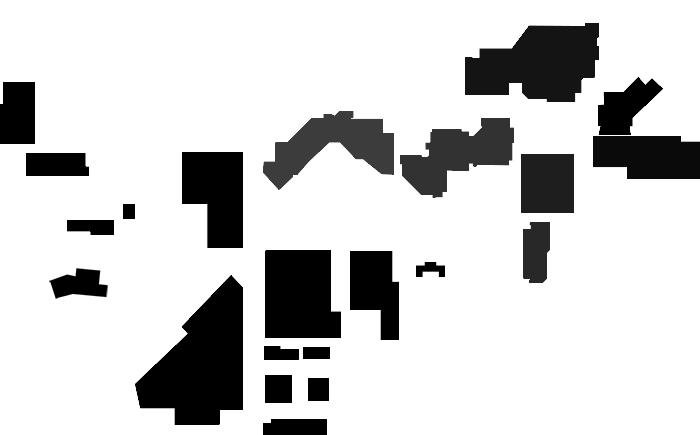
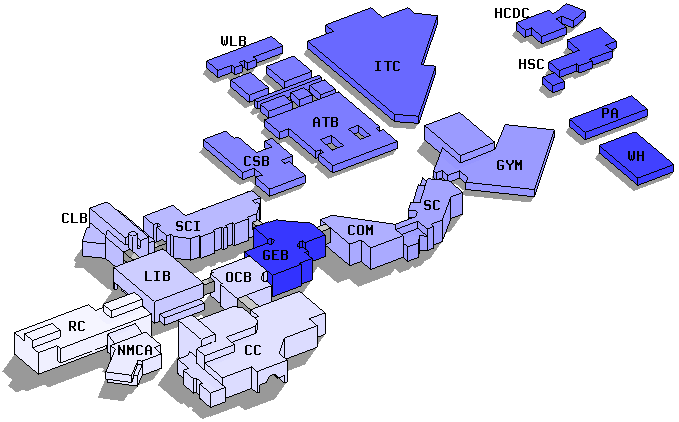
updated colorMap.js with 3D map

diff --git a/capstoneFiles/js/colorMapGRAYS.js b/capstoneFiles/js/colorMapGRAYS.js
@@ -43,8 +43,8 @@ function drawImage() {
 		//get gray image data
 		var image = document.getElementById("grayImage");
 		//set cavas size to the size of map.png image
-		canvas.height = 422;
-		canvas.width = 679;
+		canvas.height = 435;
+		canvas.width = 700;
 		ctx.drawImage(image,0,0);
     
 		var imgd = ctx.getImageData(0, 0, canvas.width,canvas.height)
@@ -52,80 +52,34 @@ function drawImage() {
 
 		
 	
-		//each buildings current blue value
-		//aka currentBuildings[0] = rgb(245,245,255)
-		var currentBuildings = new Array();
-		var colorStart = 245;
-		for(var i = 0; i<20;i++)
-		{
-			currentBuildings.push(colorStart)
-			colorStart -= 10;
-		}
+		//each buildings current gray (to repalce with a color)
+		//aka currentBuildings[0] = 10 = rgb(10,10,10) 
+		var currentBuildings = new Array(10,20,30,40,50,60);
 		
 		//replace with a precent with color from 1 to 100
 		//1% is red, 50% is yellow, 100% is green
-		var newBuildings = new Array();
-		//populate with randome numbers from 1-100
-		for (var j=0;j<currentBuildings.length;j++){
-			newBuildings.push(Math.floor(Math.random() * 100) + 1)
-		}
-		//to fix some anit alising problems
-		var aaFix = 4;
-		//this is the off set from the color blue that repersents the buildings color and the buildings color in the shade
-		//this is set in  in MAP.png the you proabaly cant tell but ues an color picker to see the differents
-		//sun and in the color of blues would are for currentBuildings[] rgb(245,245,255)
-		//current shade on the building is currentBuildings[] rgb(245-shadeOld ,245-shadeOld ,255)	
-		var shadeOld = 5;
+		var newBuildings = new Array(1,73,64,100,50,30);
 		
-		//repaces the old blue shade by subtracting the new building by 70rgb values for both red and green
-		//this makes it much darker than the orignal MAP.png's building shadeing 
-		var shadeNew = 70;
+		//some image options
+		var colorAlpha = 100; //alpha % 0-100
+		var colorIntent = 200; //intensity of colors 0 = black, 255 = very bright colors
 		
 	
 		
 			//loop though each pixel 
 			//(pix[i] = red, pix[i+1] = green, pix[i+2] = blue, pix[i+3] = alpha)	
 		for (var i = 0, n = pix.length; i <n; i += 4) {
-			//fist skip the for loop if the color is not a blue color rgb(0-255,0-255,255(only!))
-			//(if its a blue color the blue value needs to be 225) and red/green can be anything
-			//or non-opaque pixcels 
-		   //(MAP.png is transpaerent where there is no buildings or shade on gournd)
-			if(pix[i+2] >= 255-aaFix && pix[i+3] == 255){
-				//loop for each for a certain blue
-				for (var j=0;j<currentBuildings.length;j++){ 
-					
-		
-						//check if this building's pixcel is in "sun" 
-						//checks for if its the right color blue color is inside the range of aaFix
-						if(pix[i] >= currentBuildings[j]-aaFix && 
-						pix[i] <= currentBuildings[j]+aaFix && 
-						pix[i+1] >= currentBuildings[j]-aaFix && 
-						pix[i+1] <= currentBuildings[j]+aaFix )
-						{ //if it is a building get the right mix of red and green
-							pix[i] = getRed(newBuildings[j],255);
-							pix[i+1] = getGreen(newBuildings[j],255);
-							//set blue to 0
-							pix[i+2] = 0;
-						}
-						//check for building (in "shade") color inside the range of aaFix
-						//checks for if its the right color blue color is inside the range of aaFix
-						else if(
-						pix[i] >= currentBuildings[j]-shadeOld-aaFix && 
-						pix[i] <= currentBuildings[j]-shadeOld+aaFix && 
-						pix[i+1] >= currentBuildings[j]-shadeOld-aaFix && 
-						pix[i+1] <= currentBuildings[j]-shadeOld+aaFix )
-						{ 
-							//gets red and green and then subtracts shadeNew to make the color darker
-							pix[i] = getRed(newBuildings[j],255)-shadeNew;
-							pix[i+1] = getGreen(newBuildings[j],255)-shadeNew;
-							pix[i+2] = 0;
-						}
-					}
-					
+			
+				//remove semi-transparent pixels to clean up the new image from the old one
+				//pix[i+3] is the alpha
+				if(pix[i+3] > 0 && pix[i+3] < 255  ){ 
+					pix[i] = 0;
+					pix[i+1] = 0;
+					pix[i+2] = 0;
+					pix[i+3] = 0;
 				}
 			
 				//look at each buildings grays for a mach
-				/*
 				for (var j=0;j<currentBuildings.length;j++){ 
 					//if there is a mach chage the color from newBuildings array
 				   if(pix[i] == currentBuildings[j] &&pix[i+1] == currentBuildings[j] &&pix[i+2] == currentBuildings[j]){ 
@@ -135,7 +89,7 @@ function drawImage() {
 						pix[i+3] = (colorAlpha/100)*255;
 					}
 				  
-				}*/
+				}
 		}
 	
 		//delete old image

diff --git a/capstoneFiles/js/Charts.js b/capstoneFiles/js/Charts.js
@@ -35,7 +35,6 @@ function Chart( div){
 }
 //Chart Method (draws the chart)
 Chart.prototype.draw = function(){
-	if(isDiv(this))
 		this.chart.draw(this.data, this.options);
 }
 /////////////////////////////////////////////
@@ -82,6 +81,7 @@ function deleteChart(divId)
 	}
 	
 }
+//returns a Chart by ID
 function getChart(divId)
 {
 	for (var i = 0; i < charts.length; i++){
@@ -97,8 +97,9 @@ function getChart(divId)
 //when window is ever resized this will be called
 window.onresize = function(event) {
 	//checks is campus map is showing and resizes it
-	if(document.getElementById('map') !== null)
+	if(isDiv('map'))
 		document.getElementById('map').style.width = document.getElementById('mapSize').offsetWidth + "px";
+	
 	//resize each chart in charts array
 	for (var i = 0; i < charts.length; i++){
     	charts[i].draw();	
